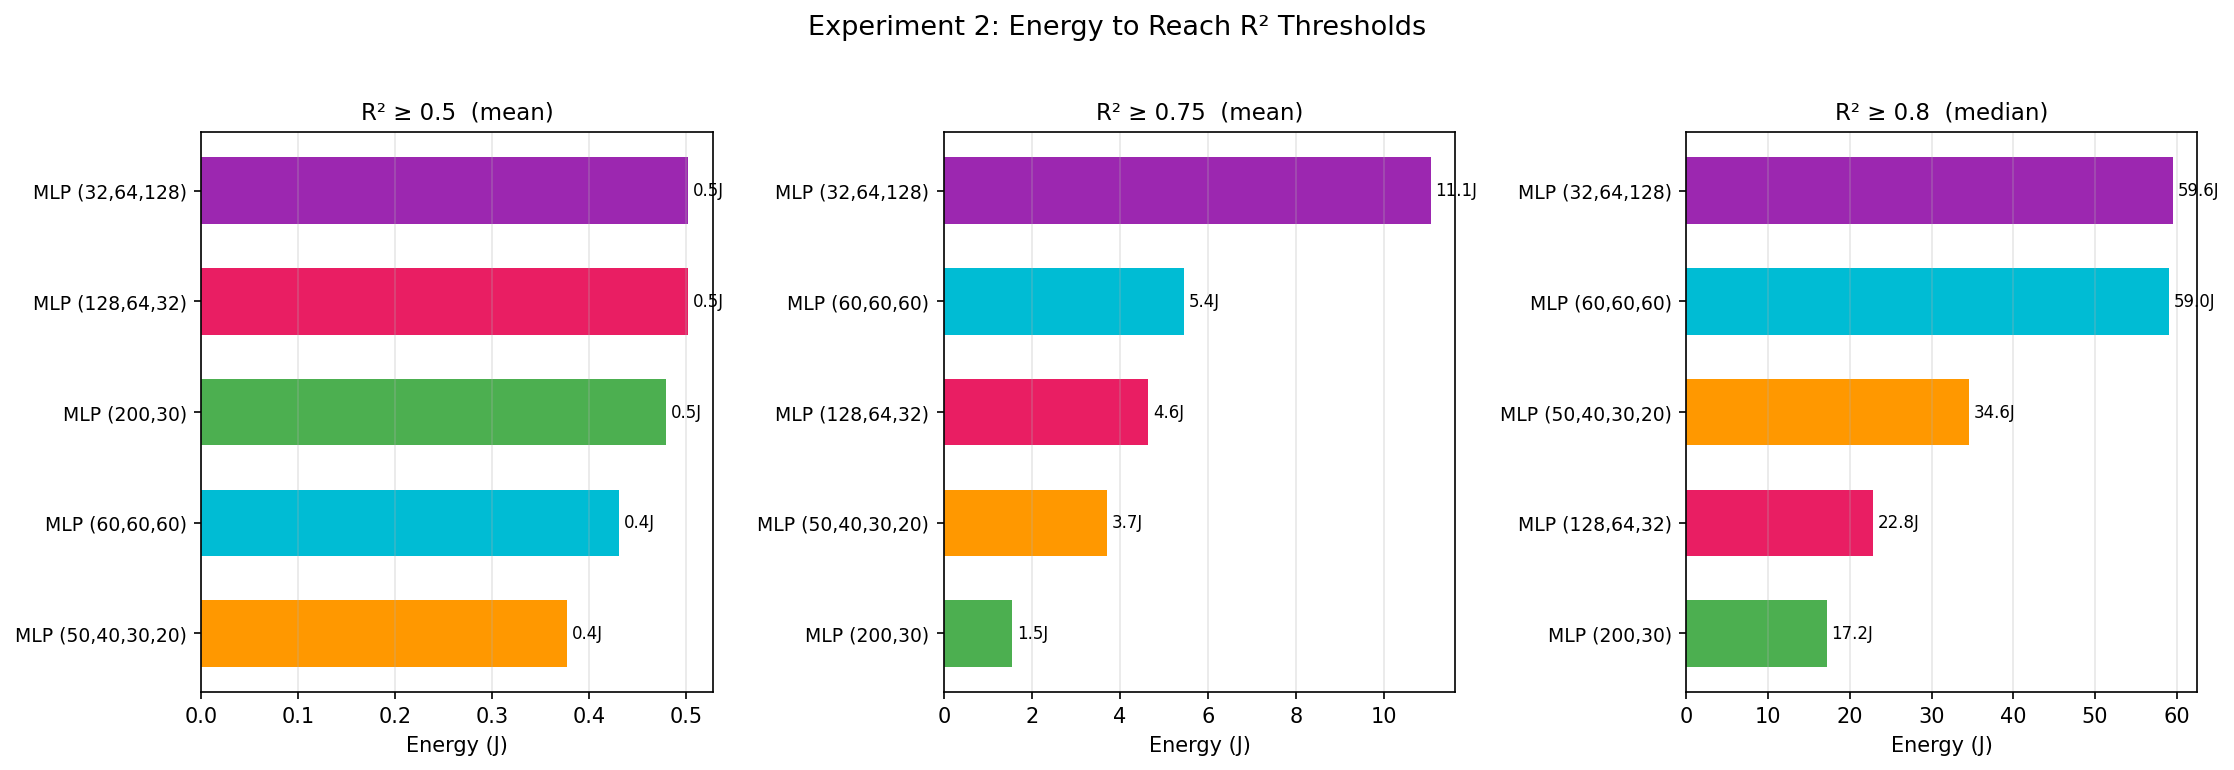
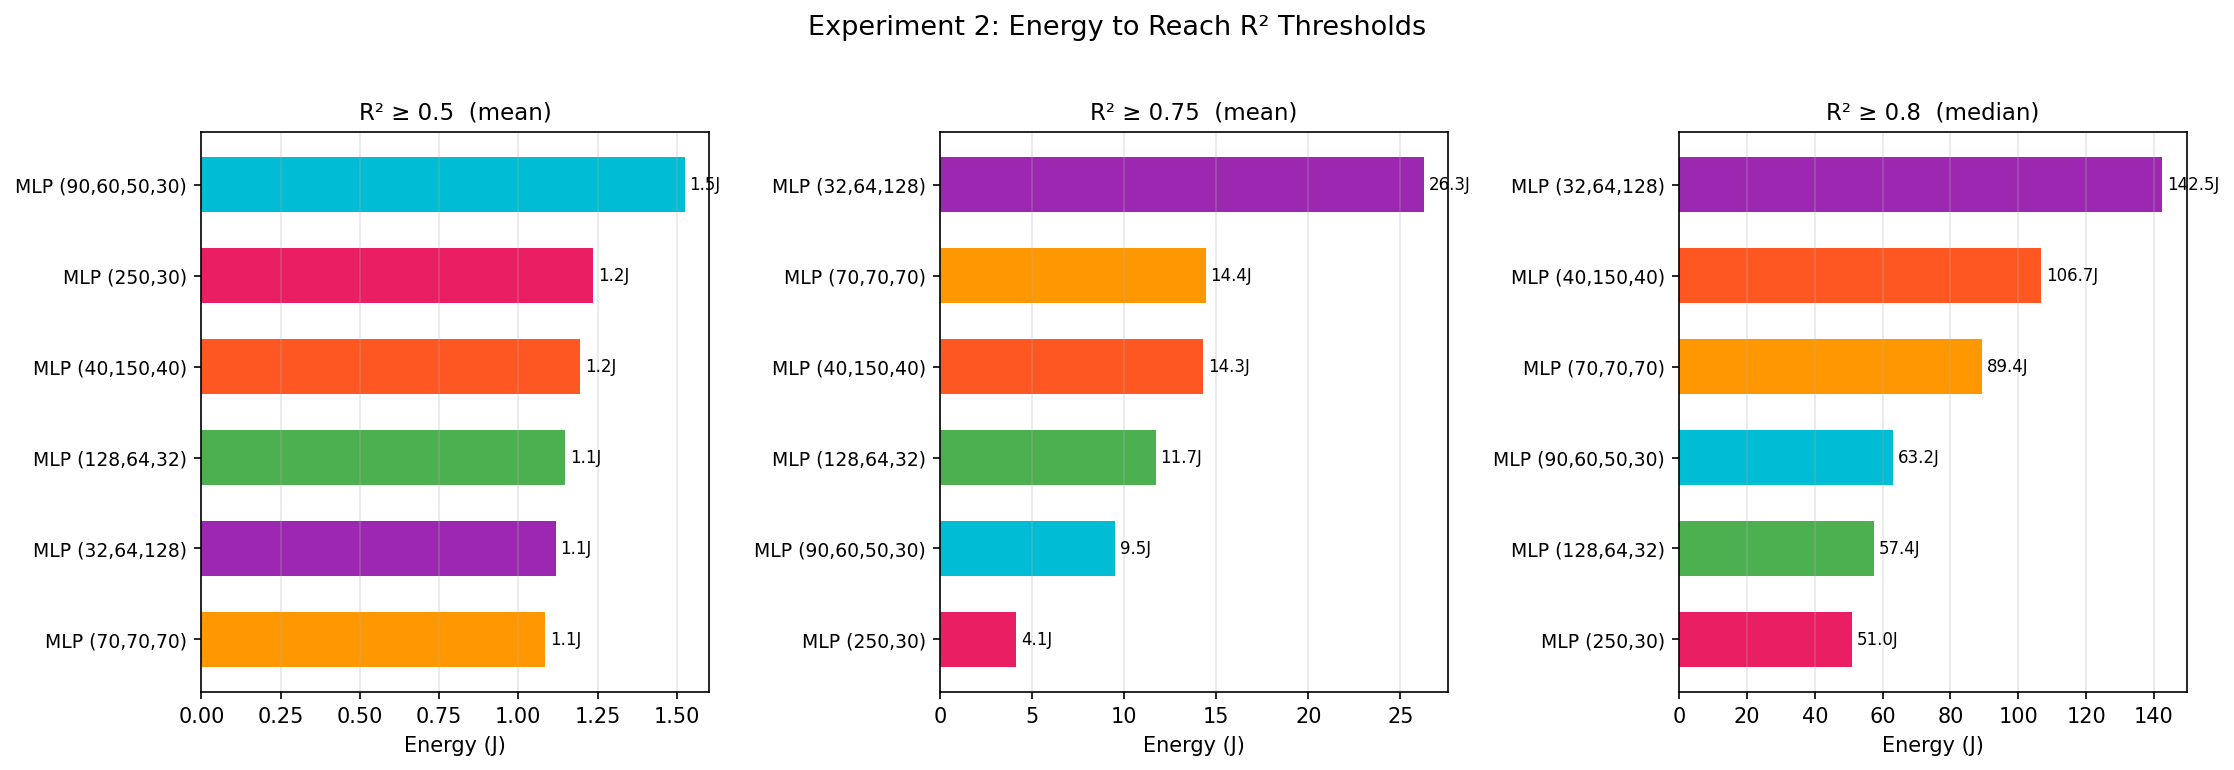
exp2: update architectures and fix energy_per_epoch calculation
- Replace old MLP architectures with 6 new ones (250x30, 128x64x32, 32x64x128, 70x70x70, 90x60x50x30, 40x150x40)
- Update run_experiment.sh with best hyperparams from grid search
- Update analyze.py MODEL_META for all 6 architectures
- Fix energy_per_epoch to use curve energy at best_epoch instead of total_energy
- Add energy_at_best metric

diff --git a/experiments/exp2_mlp_sweep/analyze.py b/experiments/exp2_mlp_sweep/analyze.py
@@ -22,11 +22,12 @@ R2_THRESHOLDS = [0.5, 0.75, 0.8]
 IG_THRESHOLDS = [-0.5 * np.log(max(1 - r, 1e-10)) for r in R2_THRESHOLDS]
 
 MODEL_META = {
-    "mlp_128x64x32":   {"label": "MLP (128,64,32)",   "color": "#E91E63", "marker": "D"},
-    "mlp_200x30":      {"label": "MLP (200,30)",      "color": "#4CAF50", "marker": "s"},
+    "mlp_250x30":      {"label": "MLP (250,30)",      "color": "#E91E63", "marker": "D"},
+    "mlp_128x64x32":   {"label": "MLP (128,64,32)",   "color": "#4CAF50", "marker": "s"},
     "mlp_32x64x128":   {"label": "MLP (32,64,128)",   "color": "#9C27B0", "marker": "v"},
-    "mlp_50x40x30x20": {"label": "MLP (50,40,30,20)", "color": "#FF9800", "marker": "p"},
-    "mlp_60x60x60":    {"label": "MLP (60,60,60)",    "color": "#00BCD4", "marker": "^"},
+    "mlp_70x70x70":    {"label": "MLP (70,70,70)",    "color": "#FF9800", "marker": "p"},
+    "mlp_90x60x50x30": {"label": "MLP (90,60,50,30)", "color": "#00BCD4", "marker": "^"},
+    "mlp_40x150x40":   {"label": "MLP (40,150,40)",   "color": "#FF5722", "marker": "h"},
 }
 
 
@@ -92,11 +93,18 @@ def main():
                     step_val = find_first_step(curve, "val_r2", th)
                     dr[f"step_to_r2_{th}"] = step_val
                     m[f"step_to_r2_{th}"] = step_val
-            # energy per epoch
+            # energy per epoch (from curve at best_epoch, not total)
             best_ep = m.get("best_epoch", np.nan)
-            if best_ep and best_ep > 0:
-                dr["energy_per_epoch"] = m["total_energy_j"] / best_ep
-                m["energy_per_epoch"] = m["total_energy_j"] / best_ep
+            energy_at_best = np.nan
+            if cf.exists() and not np.isnan(best_ep) and best_ep > 0:
+                curve = pd.read_csv(cf)
+                row = curve[curve["step"] == best_ep]
+                if not row.empty:
+                    energy_at_best = row.iloc[0]["cumulative_energy_j"]
+                    dr["energy_per_epoch"] = energy_at_best / best_ep
+                    dr["energy_at_best"] = energy_at_best
+                    m["energy_per_epoch"] = energy_at_best / best_ep
+                    m["energy_at_best"] = energy_at_best
             detail.append(dr)
 
         all_runs[tag] = runs

diff --git a/experiments/exp2_mlp_sweep/grid_search.py b/experiments/exp2_mlp_sweep/grid_search.py
@@ -33,12 +33,12 @@ from src.preprocessing import Preprocessor
 
 # ─── 6 architectures ──────────────────────────────────────────
 ARCHITECTURES = [
+    (250, 30),
     (128, 64, 32),
-    (60, 60, 60),
-    (200, 30),
-    (50, 40, 30, 20),
-    (100, 100),
     (32, 64, 128),
+    (70, 70, 70),
+    (90, 60, 50, 30),
+    (40, 150, 40),
 ]
 
 
